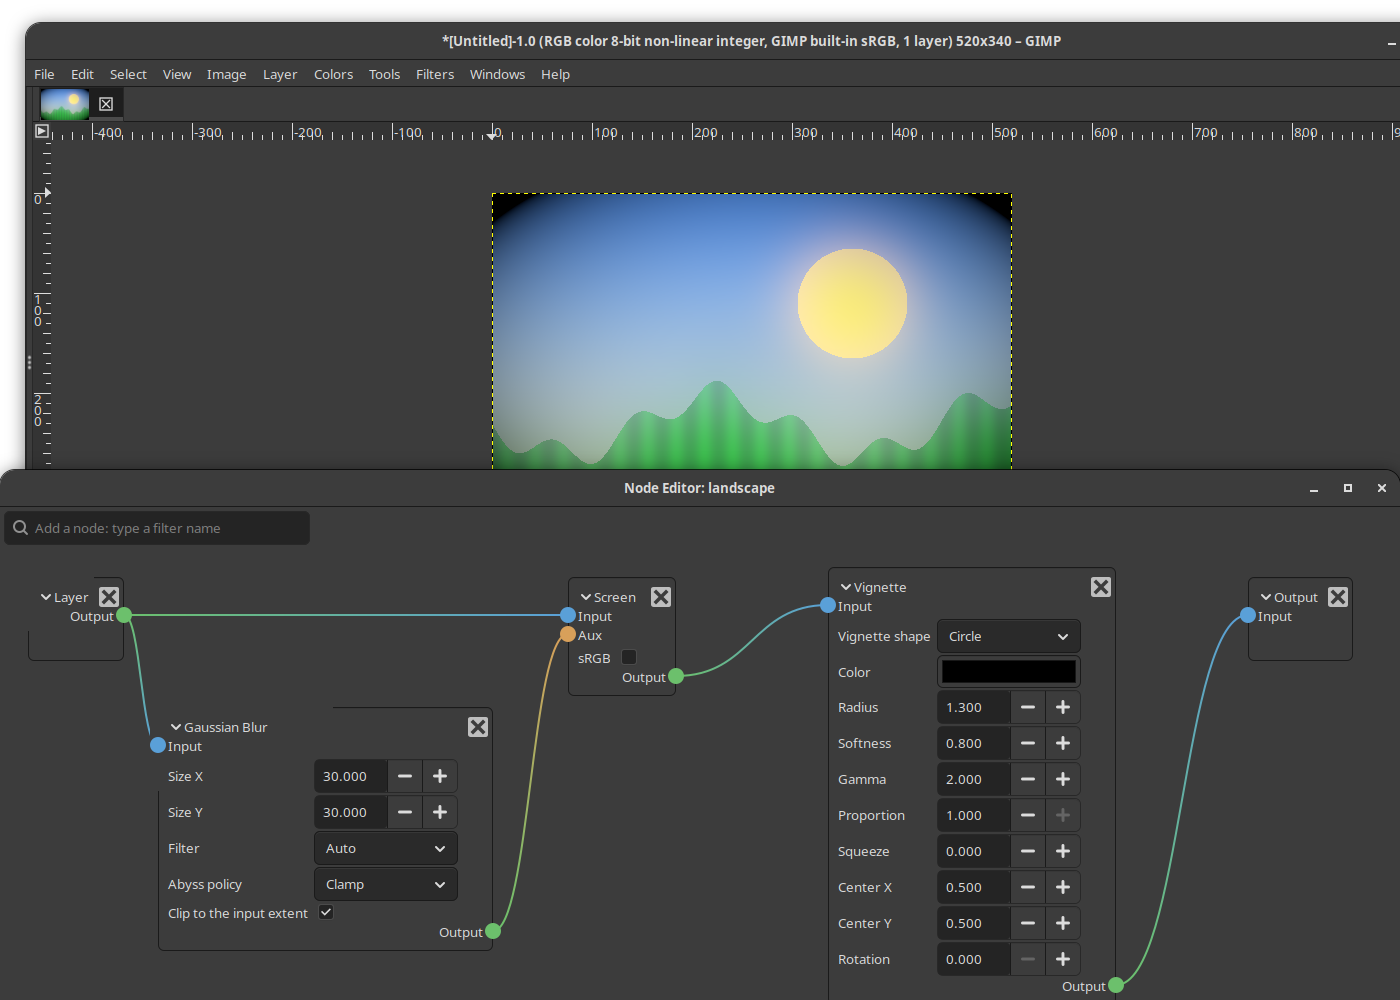
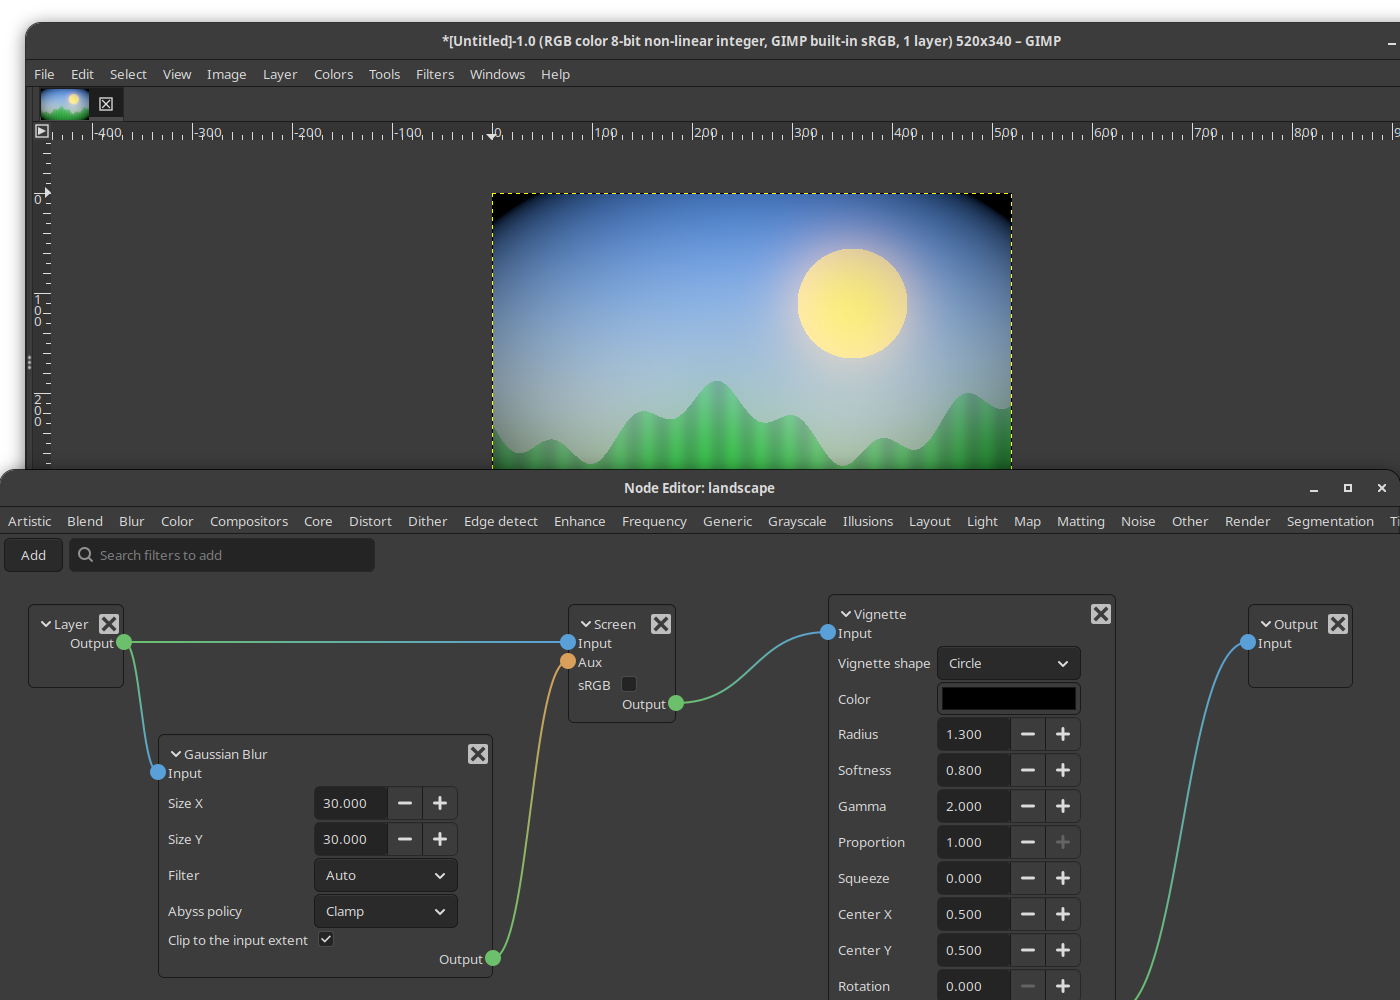
Editor: a menu row of all filters, Shift+A and right-click, own search list
Adding a node was only possible through the search field's completion,
whose list came out empty or a few pixels wide. Now:

- a row of menus along the top, one per GEGL category, with every
  filter offered;
- an Add menu with the same categories, also on Shift+A and on a
  right-click on the canvas, where the node is then placed;
- the search lists its matches in a popover (Up, Down, Enter, Escape).

GIMP's theme paints every vertical box (".vertical"), which covered parts
of the GtkNodes node frames and left bits behind when a node moved; the
nodes now have a transparent background.

diff --git a/plug-ins/gegl-nodes/gn_editor.py b/plug-ins/gegl-nodes/gn_editor.py
@@ -25,6 +25,25 @@ IMAGE_KEY = 1  # all sockets carry images: any output fits any input
 COLORS = {"input": "#5aa0d8", "aux": "#d8a05a", "aux2": "#a05ad8", "output": "#6cc06c"}
 
 
+# GIMP's theme gives every vertical box a background (".vertical" in
+# themes/Default/common.css). A GtkNodes node is a vertical box, and that
+# background, painted after GtkNodes draws the node's frame, hid parts of
+# the frame (and left parts of it behind when a node moved).
+_CSS = b".gegl-nodes-node { background-color: transparent; background-image: none; }"
+_css_screens = set()
+
+
+def _style(widget):
+    screen = widget.get_screen()
+    if screen not in _css_screens:
+        provider = Gtk.CssProvider()
+        provider.load_from_data(_CSS)
+        Gtk.StyleContext.add_provider_for_screen(
+            screen, provider, Gtk.STYLE_PROVIDER_PRIORITY_APPLICATION + 1)
+        _css_screens.add(screen)
+    widget.get_style_context().add_class("gegl-nodes-node")
+
+
 def _rgba(spec):
     c = Gdk.RGBA()
     c.parse(spec)
@@ -60,6 +79,7 @@ class _Node(GtkNodes.Node):
         self.gn_sinks = {}
         self.gn_source = None
         self.set_label(label)
+        _style(self)
         for signal in ("node-socket-connect", "node-socket-disconnect"):
             self.connect(signal, lambda *a: editor.changed())
 
@@ -192,39 +212,205 @@ class GraphEditor(Gtk.Box):
         self.nodes = {}
 
         bar = Gtk.Box(spacing=6, margin=4)
-        self.search = Gtk.SearchEntry(placeholder_text="Add a node: type a filter name",
+        self.search = Gtk.SearchEntry(placeholder_text="Search filters to add",
                                       width_chars=36)
-        store = Gtk.ListStore(str, str)
-        for info in sorted(gn_ops.catalog().values(), key=lambda i: i.title.lower()):
-            store.append(["%s  (%s)" % (info.title, info.name), info.name])
-        completion = Gtk.EntryCompletion(model=store, text_column=0, minimum_key_length=1,
-                                         popup_set_width=False)
-        completion.set_match_func(self._match, None)
-        completion.connect("match-selected", self._picked)
-        self.search.set_completion(completion)
+        # the matches, in a popover under the field (GtkEntryCompletion's
+        # list came out empty or a few pixels wide under GIMP's theme)
+        self._ops = sorted(gn_ops.catalog().values(), key=lambda i: i.title.lower())
+        self.matches = Gtk.ListBox(activate_on_single_click=True)
+        self.matches.connect("row-activated", lambda box, row: self._take(row))
+        scrolled = Gtk.ScrolledWindow(hscrollbar_policy=Gtk.PolicyType.NEVER,
+                                      propagate_natural_height=True, max_content_height=360,
+                                      min_content_width=380)
+        scrolled.add(self.matches)
+        self.found = Gtk.Popover(relative_to=self.search, modal=False,
+                                 position=Gtk.PositionType.BOTTOM)
+        self.found.add(scrolled)
+        scrolled.show_all()
+        self.search.connect("search-changed", self._find)
+        self.search.connect("activate", lambda e: self._take(
+            self.matches.get_selected_row() or self.matches.get_row_at_index(0)))
+        self.search.connect("key-press-event", self._search_key)
+        self.search.connect("stop-search", lambda e: self._end_search())
+        add = Gtk.MenuButton(label="Add", tooltip_text="Add a node (Shift+A, or right-click "
+                             "on the canvas)")
+        self._add_at = None
+        add.set_popup(self._menu())
+        bar.pack_start(add, False, False, 0)
         bar.pack_start(self.search, False, False, 0)
         self.status = Gtk.Label(xalign=0.0, ellipsize=3)
         bar.pack_start(self.status, True, True, 0)
+        self.pack_start(self._menubar(), False, False, 0)
         self.pack_start(bar, False, False, 0)
 
         self.view = GtkNodes.NodeView()
         self.view.connect("node-drag-end", lambda *a: self.emit("moved"))
+        self.view.add_events(Gdk.EventMask.BUTTON_PRESS_MASK)
+        self.view.connect("button-press-event", self._pressed)
+        self.connect("hierarchy-changed", self._toplevel)
         scroller = Gtk.ScrolledWindow(hexpand=True, vexpand=True)
         scroller.add(self.view)
         self.pack_start(scroller, True, True, 0)
         self.load(graph or G.new_graph())
 
-    @staticmethod
-    def _match(completion, key, it, data):
-        text = completion.get_model()[it][0].lower()
-        return all(word in text for word in key.lower().split())
+    def _find(self, entry):
+        for row in self.matches.get_children():
+            row.destroy()
+        words = entry.get_text().lower().split()
+        if not words:
+            self.found.popdown()
+            return
+        for info in self._ops:
+            text = "%s %s %s" % (info.title, info.name, " ".join(info.categories))
+            if all(word in text.lower() for word in words):
+                label = Gtk.Label(xalign=0.0, margin=4)
+                label.set_markup("%s  <small>%s</small>" % (
+                    GLib.markup_escape_text(info.title), GLib.markup_escape_text(info.name)))
+                label.set_tooltip_text(info.description)
+                row = Gtk.ListBoxRow()
+                row.add(label)
+                row.gn_op = info.name
+                self.matches.add(row)
+        rows = self.matches.get_children()
+        if rows:
+            self.matches.select_row(rows[0])
+            self.matches.show_all()
+            self.found.popup()
+        else:
+            self.found.popdown()
+        self.say("" if rows else "No filter matches: %s" % entry.get_text())
 
-    def _picked(self, completion, model, it):
-        name = model[it][1]
-        GLib.idle_add(lambda: self.search.set_text("") or False)
-        x = 40 + 30 * (len(self.nodes) % 8)
-        self.add_op(name, 240 + x, 20 + x)
+    def _search_key(self, entry, event):
+        rows = self.matches.get_children()
+        if event.keyval not in (Gdk.KEY_Down, Gdk.KEY_Up) or not rows:
+            return False
+        row = self.matches.get_selected_row()
+        i = row.get_index() if row else -1
+        i = min(i + 1, len(rows) - 1) if event.keyval == Gdk.KEY_Down else max(i - 1, 0)
+        self.matches.select_row(rows[i])
+        rows[i].grab_focus()
+        entry.grab_focus_without_selecting()
         return True
+
+    def _take(self, row):
+        if row is None:
+            return
+        self._end_search()
+        self._add_picked(row.gn_op)
+
+    def _end_search(self):
+        self.found.popdown()
+        GLib.idle_add(lambda: self.search.set_text("") or False)
+
+    def _add_picked(self, name):
+        if self._add_at is not None:
+            x, y = self._add_at
+            self._add_at = None
+        else:
+            step = 40 + 30 * (len(self.nodes) % 8)
+            x, y = 240 + step, 20 + step
+        self.add_op(name, x, y)
+
+    @staticmethod
+    def groups():
+        """The operations offered, by their first category."""
+        groups = {}
+        for info in gn_ops.catalog().values():
+            category = next((c for c in info.categories if c), "other").lower()
+            groups.setdefault(category, []).append(info)
+        return {c: sorted(ops, key=lambda i: i.title.lower()) for c, ops in sorted(groups.items())}
+
+    def _ops_menu(self, ops):
+        sub = Gtk.Menu()
+        for info in ops:
+            op = Gtk.MenuItem(label=info.title)
+            op.set_tooltip_text("%s\n%s" % (info.name, info.description))
+            op.connect("activate", lambda w, name=info.name: self._add_picked(name))
+            sub.append(op)
+        return sub
+
+    def _menu(self):
+        """All operations offered, by category, as in Blender's Add menu."""
+        menu = Gtk.Menu()
+        for category, ops in self.groups().items():
+            item = Gtk.MenuItem(label=category.replace("-", " ").capitalize())
+            item.set_submenu(self._ops_menu(ops))
+            menu.append(item)
+        menu.connect("deactivate", lambda m: GLib.idle_add(self._forget_place))
+        menu.show_all()
+        self._popup = menu
+        return menu
+
+    def _menubar(self):
+        """The same, as a row of menus across the top; it scrolls sideways
+        when the window is narrower than the row."""
+        self.menubar = Gtk.MenuBar()
+        for category, ops in self.groups().items():
+            item = Gtk.MenuItem(label=category.replace("-", " ").capitalize())
+            item.set_submenu(self._ops_menu(ops))
+            self.menubar.append(item)
+        row = Gtk.ScrolledWindow(vscrollbar_policy=Gtk.PolicyType.NEVER,
+                                 hscrollbar_policy=Gtk.PolicyType.AUTOMATIC,
+                                 propagate_natural_height=True)
+        row.add(self.menubar)
+        return row
+
+    def _forget_place(self):
+        # after an item's "activate", which comes after "deactivate"
+        self._add_at = None
+        return False
+
+    def _pointer(self):
+        window = self.view.get_window()
+        seat = window.get_display().get_default_seat()
+        _, x, y, _ = window.get_device_position(seat.get_pointer())
+        a = self.view.get_allocation()
+        return x - a.x, y - a.y
+
+    def _on_node(self, x, y):
+        for node in self.nodes.values():
+            nx = self.view.child_get_property(node, "x")
+            ny = self.view.child_get_property(node, "y")
+            if nx <= x < nx + node.get_allocated_width() and \
+               ny <= y < ny + node.get_allocated_height():
+                return True
+        return False
+
+    def popup_add(self, event=None):
+        """The Add menu at the pointer; the node goes where the pointer is."""
+        x, y = self._pointer()
+        self._add_at = (max(0, x - 20), max(0, y - 10))
+        self._popup.popup_at_pointer(event)
+
+    def _pressed(self, view, event):
+        x, y = self._pointer()
+        if self._on_node(x, y):
+            return False
+        # a click on the canvas takes the keys from the search field (for
+        # Shift+A), as in Blender
+        top = self.get_toplevel()
+        if isinstance(top, Gtk.Window):
+            top.set_focus(None)
+        if event.button != Gdk.BUTTON_SECONDARY:
+            return False
+        self.popup_add(event)
+        return True
+
+    def _toplevel(self, widget, previous):
+        # Shift+A anywhere in the window, also with nothing focused
+        top = self.get_toplevel()
+        if isinstance(top, Gtk.Window) and not getattr(top, "gn_keys", False):
+            top.connect("key-press-event", self._key)
+            top.gn_keys = True
+
+    def _key(self, widget, event):
+        if isinstance(self.get_toplevel().get_focus(), Gtk.Editable):
+            return False
+        if event.keyval == Gdk.KEY_A or (event.keyval == Gdk.KEY_a and
+                                         event.state & Gdk.ModifierType.SHIFT_MASK):
+            self.popup_add(event)
+            return True
+        return False
 
     def say(self, text):
         self.status.set_text(text)

diff --git a/tests/editor_test.py b/tests/editor_test.py
@@ -23,6 +23,7 @@ Gegl.init(None)
 
 import gn_editor  # noqa: E402
 import gn_graph as G  # noqa: E402
+import gn_ops  # noqa: E402
 
 failures = 0
 
@@ -106,6 +107,33 @@ check("load keeps the places", all(
     (again["nodes"][k]["x"], again["nodes"][k]["y"]) == (v["x"], v["y"])
     for k, v in G.from_json(saved)["nodes"].items()))
 check("load keeps the values shown", editor.nodes[blur].gn_widgets["std-dev-x"].get_value() == 4.5)
+
+# adding nodes: the search field, the menu row, the Add menu
+before = set(editor.nodes)
+editor.search.set_text("gaussian blur")
+editor._find(editor.search)
+pump()
+rows = editor.matches.get_children()
+check("the search lists the matches", [r.gn_op for r in rows] == ["gegl:gaussian-blur"],
+      [r.gn_op for r in rows])
+editor.search.emit("activate")
+pump()
+added = set(editor.nodes) - before
+check("Enter in the search adds the node",
+      [getattr(editor.nodes[k], "gn_op", None) for k in added] == ["gegl:gaussian-blur"])
+offered = sorted(i.name for ops in editor.groups().values() for i in ops)
+check("the menu row has every offered filter once",
+      offered == sorted(gn_ops.catalog()) and
+      len(editor.menubar.get_children()) == len(editor.groups()))
+check("the Add menu has the same categories", [i.get_label() for i in editor._popup.get_children()]
+      == [i.get_label() for i in editor.menubar.get_children()])
+before = set(editor.nodes)
+first = editor.menubar.get_children()[0].get_submenu().get_children()[0]
+first.activate()
+pump()
+check("a filter picked in the menu row is added", len(set(editor.nodes) - before) == 1)
+check("nodes are styled out of the theme's box background",
+      all(n.get_style_context().has_class("gegl-nodes-node") for n in editor.nodes.values()))
 
 shot = os.environ.get("GN_SHOT")
 if shot:

diff --git a/plug-ins/gegl-nodes/gegl-nodes.py b/plug-ins/gegl-nodes/gegl-nodes.py
@@ -101,6 +101,8 @@ class Session:
         self.window.add(self.editor)
         self.window.connect("delete-event", self.close)
         self.window.show_all()
+        # nothing focused, so the search field shows its hint
+        self.window.set_focus(None)
         GimpUi.window_set_transient(self.window)
 
     def later(self):

diff --git a/README.md b/README.md
@@ -12,6 +12,12 @@ after saving and opening the XCF.
 *Filters > Generic > Node Editor...* The editor opens as its own window
 (see "Docked like Blender" below).
 
+To add a node: pick a filter from the row of menus along the top (one
+menu per GEGL category), click **Add**, press **Shift+A** or right-click
+on the canvas (the node goes where you clicked), or type in the search
+field and press Enter. Link nodes by dragging from a green Output dot to
+an Input dot; the Output node's input is what the layer shows.
+
 ## What is in here
 
 - **`operations/node-graph.c`**: the GEGL operation `nodes:graph`
@@ -59,7 +65,7 @@ prefix of GtkNodes.
 
     tests/run.sh               # all; GN_GUI=0 without the GIMP window test
 
-80 checks, plus lint, the build and the isolation check: unit tests in plain GEGL (the graph, the catalog, what
+86 checks, plus lint, the build and the isolation check: unit tests in plain GEGL (the graph, the catalog, what
 `nodes:graph` refuses, and that every one of the 155 operations offered is
 accepted by it), the editor widget on a Broadway display, headless GIMP
 (the filter, changes, a graph that would write a file, an XCF saved and
@@ -80,6 +86,14 @@ for upstream:
 - `fix/child-y`: a node's `y` place was set from, and read back as, its
   `x`, so nodes ended up on the diagonal (also in
   `gtk_nodes_node_view_save` and `load`).
+
+## GIMP's theme
+
+GIMP's theme gives every vertical box a background (`.vertical` in
+`themes/Default/common.css`). A GtkNodes node is a vertical box, so that
+background was painted over parts of the node's frame, and left bits of
+frames behind when a node moved. The editor makes its nodes' background
+transparent.
 
 ## Docked like Blender
 
